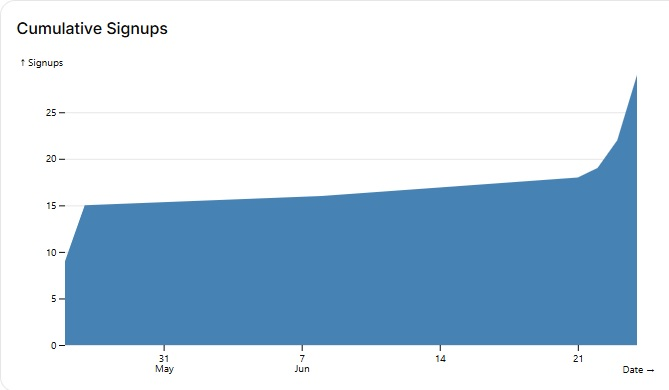
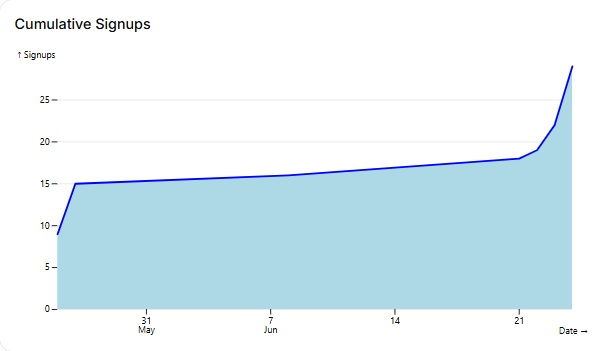
Made amount singular. Added line above area charts.

diff --git a/app/lib/analyticsCharts.ts b/app/lib/analyticsCharts.ts
@@ -25,16 +25,16 @@ function cumulativeSignupsByDay(rows: UserRow[]) {
     .sort((a, b) => +a.date - +b.date);
 }
 
-function cumulativeAmountsByDay(rows: UserRow[]) {
+function cumulativeAmountByDay(rows: UserRow[]) {
   let runningAmountTotal: number = 0;
-  const amounts = new Map<string, number>();
+  const amount = new Map<string, number>();
   
   for (const row of rows) {
     const day = row.created_at.split('T')[0]; // YYYY-MM-DD
     runningAmountTotal += row.subscription_level
-    amounts.set(day, runningAmountTotal);
+    amount.set(day, runningAmountTotal);
   }
-  return [...amounts.entries()]
+  return [...amount.entries()]
     .map(([day, amount]) => ({ date: new Date(day), amount }))
     .sort((a, b) => +a.date - +b.date);
 }
@@ -49,13 +49,14 @@ export function buildSignupsAreaOptions(rows: UserRow[]): Plot.PlotOptions {
     y: { grid: true, label: 'Signups' },
     color: { scheme: 'blues'},
     marks: [
-      Plot.areaY(data, { x: 'date', y: 'count', fill: 'steelblue' } ),
+      Plot.areaY(data, { x: 'date', y: 'count', fill: 'lightblue' } ),
+      Plot.lineY(data, { x: 'date', y: 'count', stroke: 'blue', strokeWidth: 2})
     ],
   };
 }
 
-export function buildAmountsAreaOptions(rows: UserRow[]): Plot.PlotOptions {
-  const data = cumulativeAmountsByDay(rows);
+export function buildAmountAreaOptions(rows: UserRow[]): Plot.PlotOptions {
+  const data = cumulativeAmountByDay(rows);
   return {
     width: 640,
     height: 320,
@@ -64,7 +65,8 @@ export function buildAmountsAreaOptions(rows: UserRow[]): Plot.PlotOptions {
     y: { grid: true, label: 'Amount (USD)' },
     color: { scheme: 'greens'},
     marks: [
-      Plot.areaY(data, { x: 'date', y: 'amount', fill: 'green' }),
+      Plot.areaY(data, { x: 'date', y: 'amount', fill: 'lightgreen' }),
+      Plot.lineY(data, { x: 'date', y: 'amount', stroke: 'green', strokeWidth: 2})
     ],
   };
 }

diff --git a/app/routes/admin.tsx b/app/routes/admin.tsx
@@ -55,8 +55,8 @@ export default function AdminPage() {
     [data]
   );
 
-  const amountsLineOptions = useMemo(
-    () => (data ? charts.buildAmountsAreaOptions(data) : null),
+  const amountLineOptions = useMemo(
+    () => (data ? charts.buildAmountAreaOptions(data) : null),
     [data]
   );
 
@@ -87,9 +87,9 @@ export default function AdminPage() {
           </CardContent>
         </Card>
         <Card>
-          <CardHeader><CardTitle>Cumulative Amounts</CardTitle></CardHeader>
+          <CardHeader><CardTitle>Cumulative Amount</CardTitle></CardHeader>
           <CardContent>
-            {amountsLineOptions && <PlotFigure options={amountsLineOptions} className="w-full overflow-x-auto" />}
+            {amountLineOptions && <PlotFigure options={amountLineOptions} className="w-full overflow-x-auto" />}
           </CardContent>
         </Card>
         <Card>

diff --git a/README.md b/README.md
@@ -78,9 +78,9 @@ The admin page admin.tsx hits an api/analytics endpoint for a database query and
 
 ![Cumulative Signups](readme_images/Cumulative_Signups.jpg)
 
-2) Cumulative Amounts Area Chart
+2) Cumulative Amount Area Chart
 
-![Cumulative Amounts](readme_images/Cumulative_Amounts.jpg)
+![Cumulative Amount](readme_images/Cumulative_Amount.jpg)
 
 3) Subscription Levels Histogram
 
